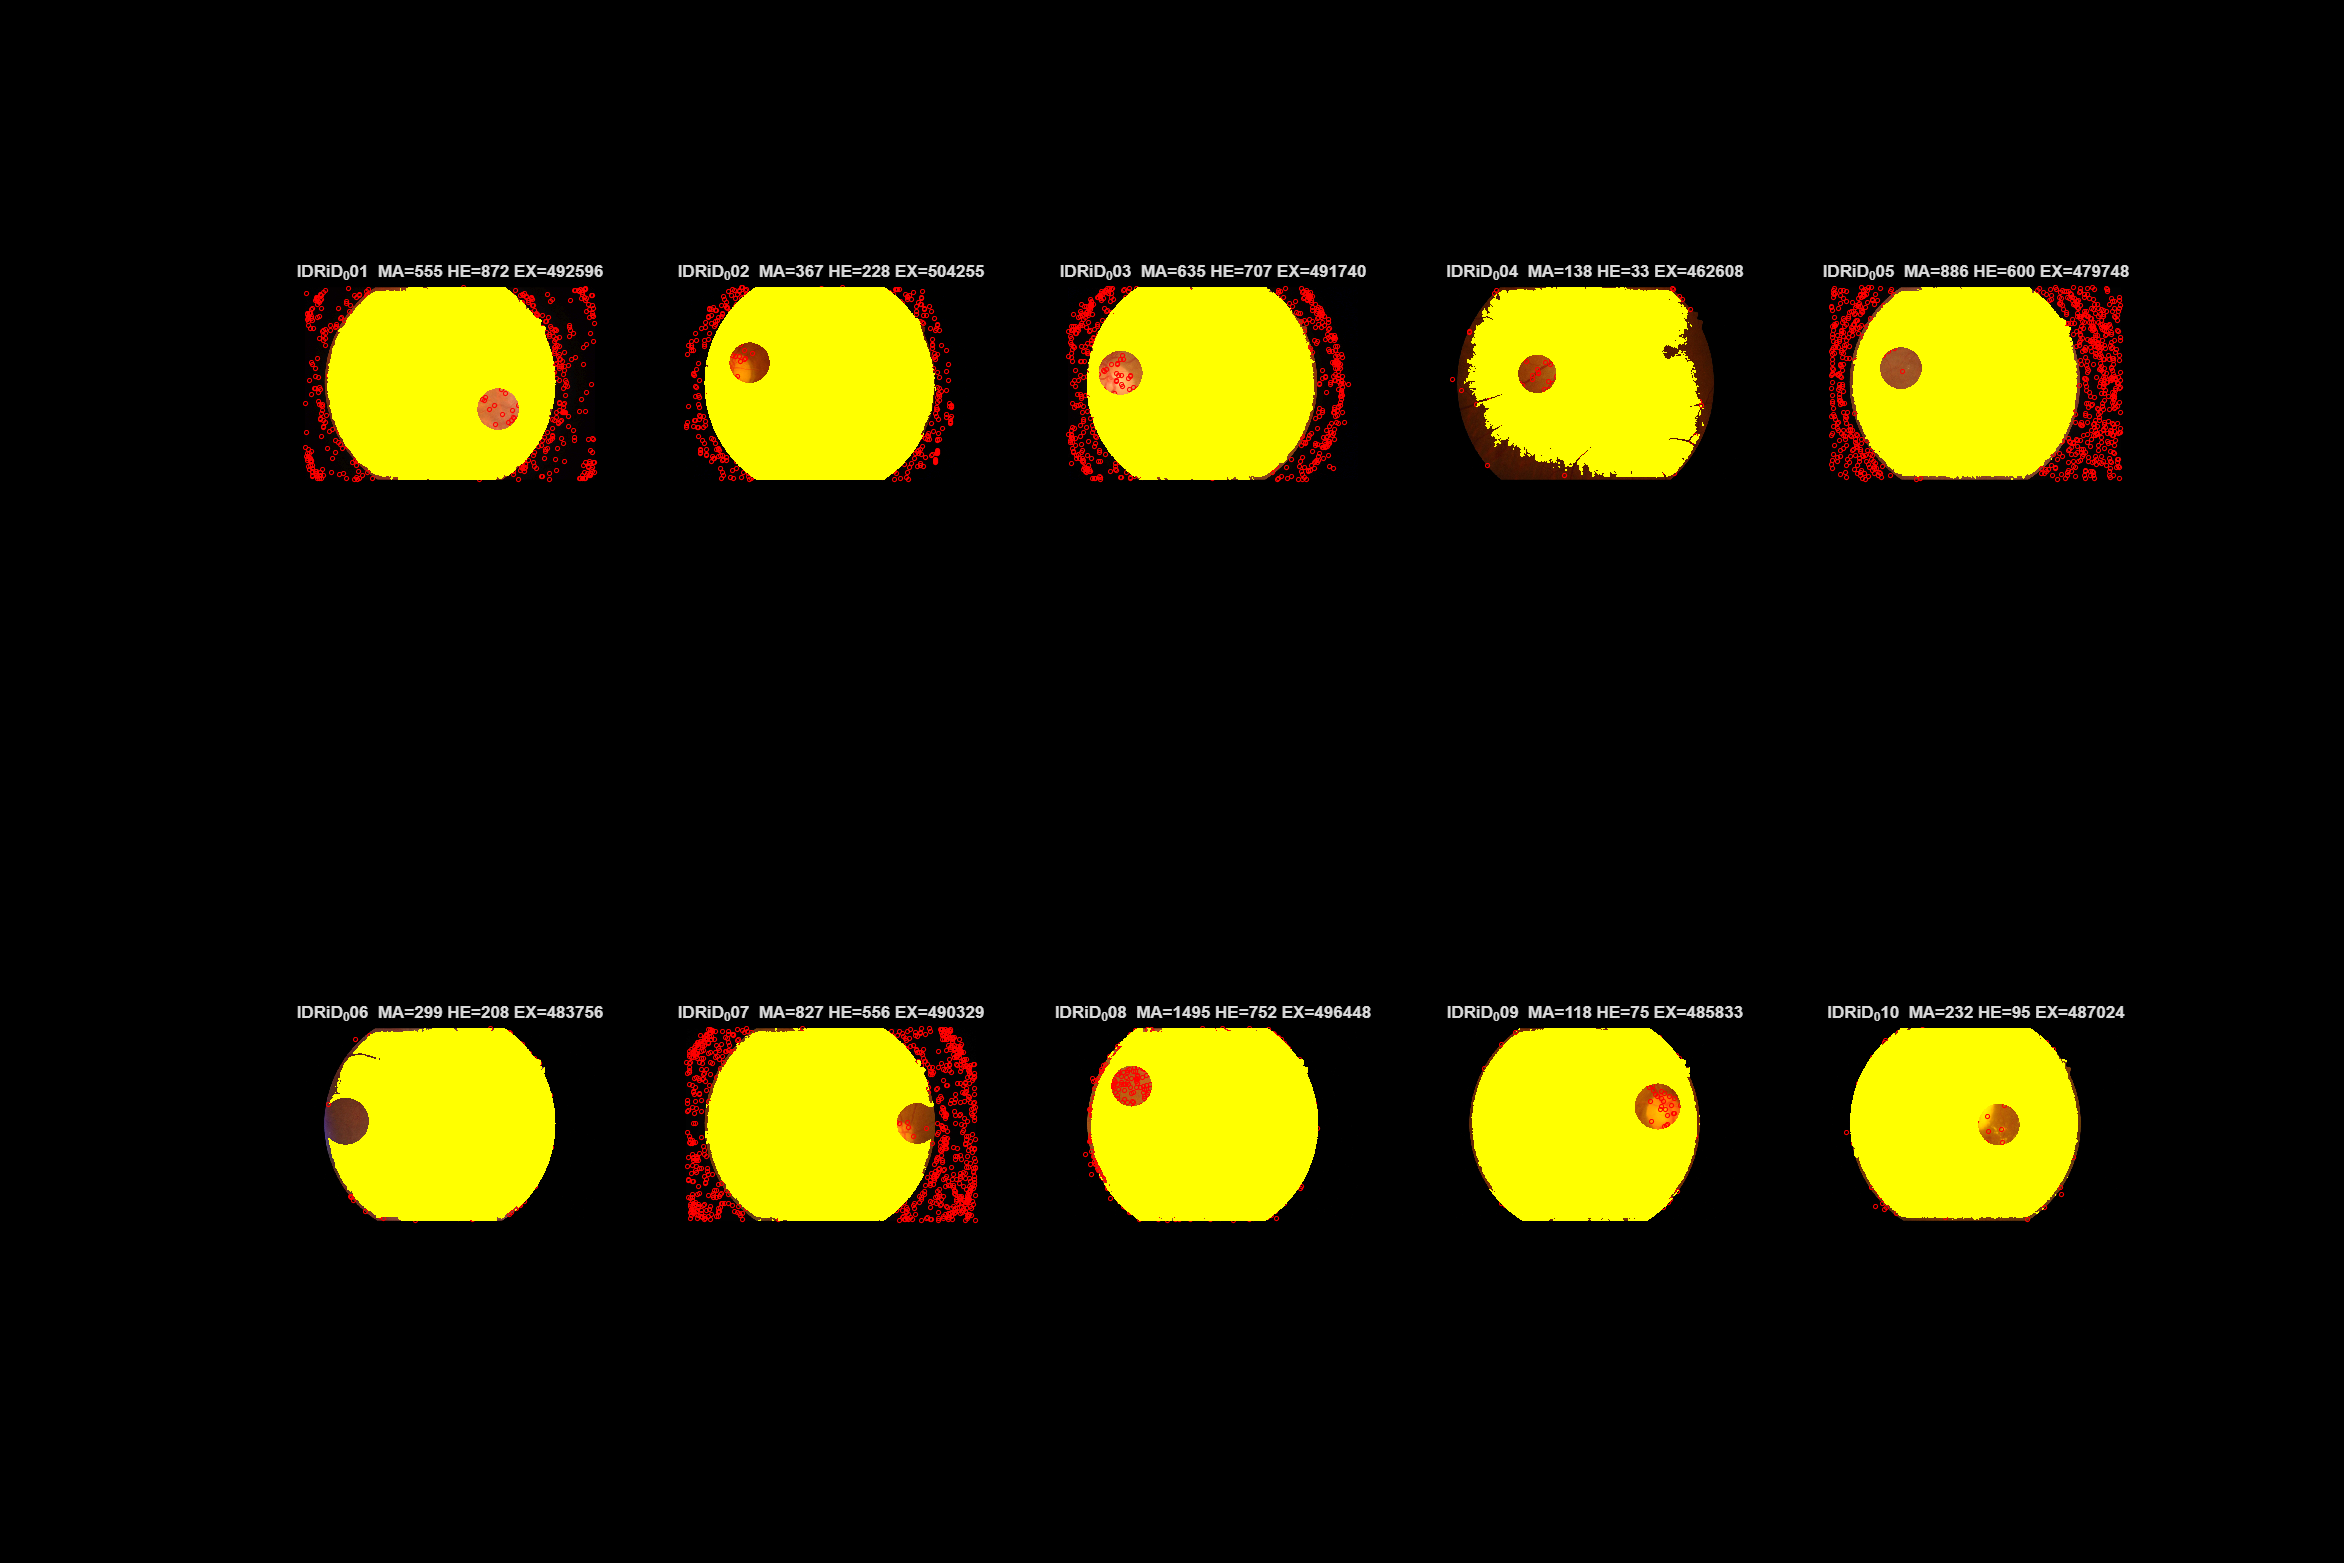
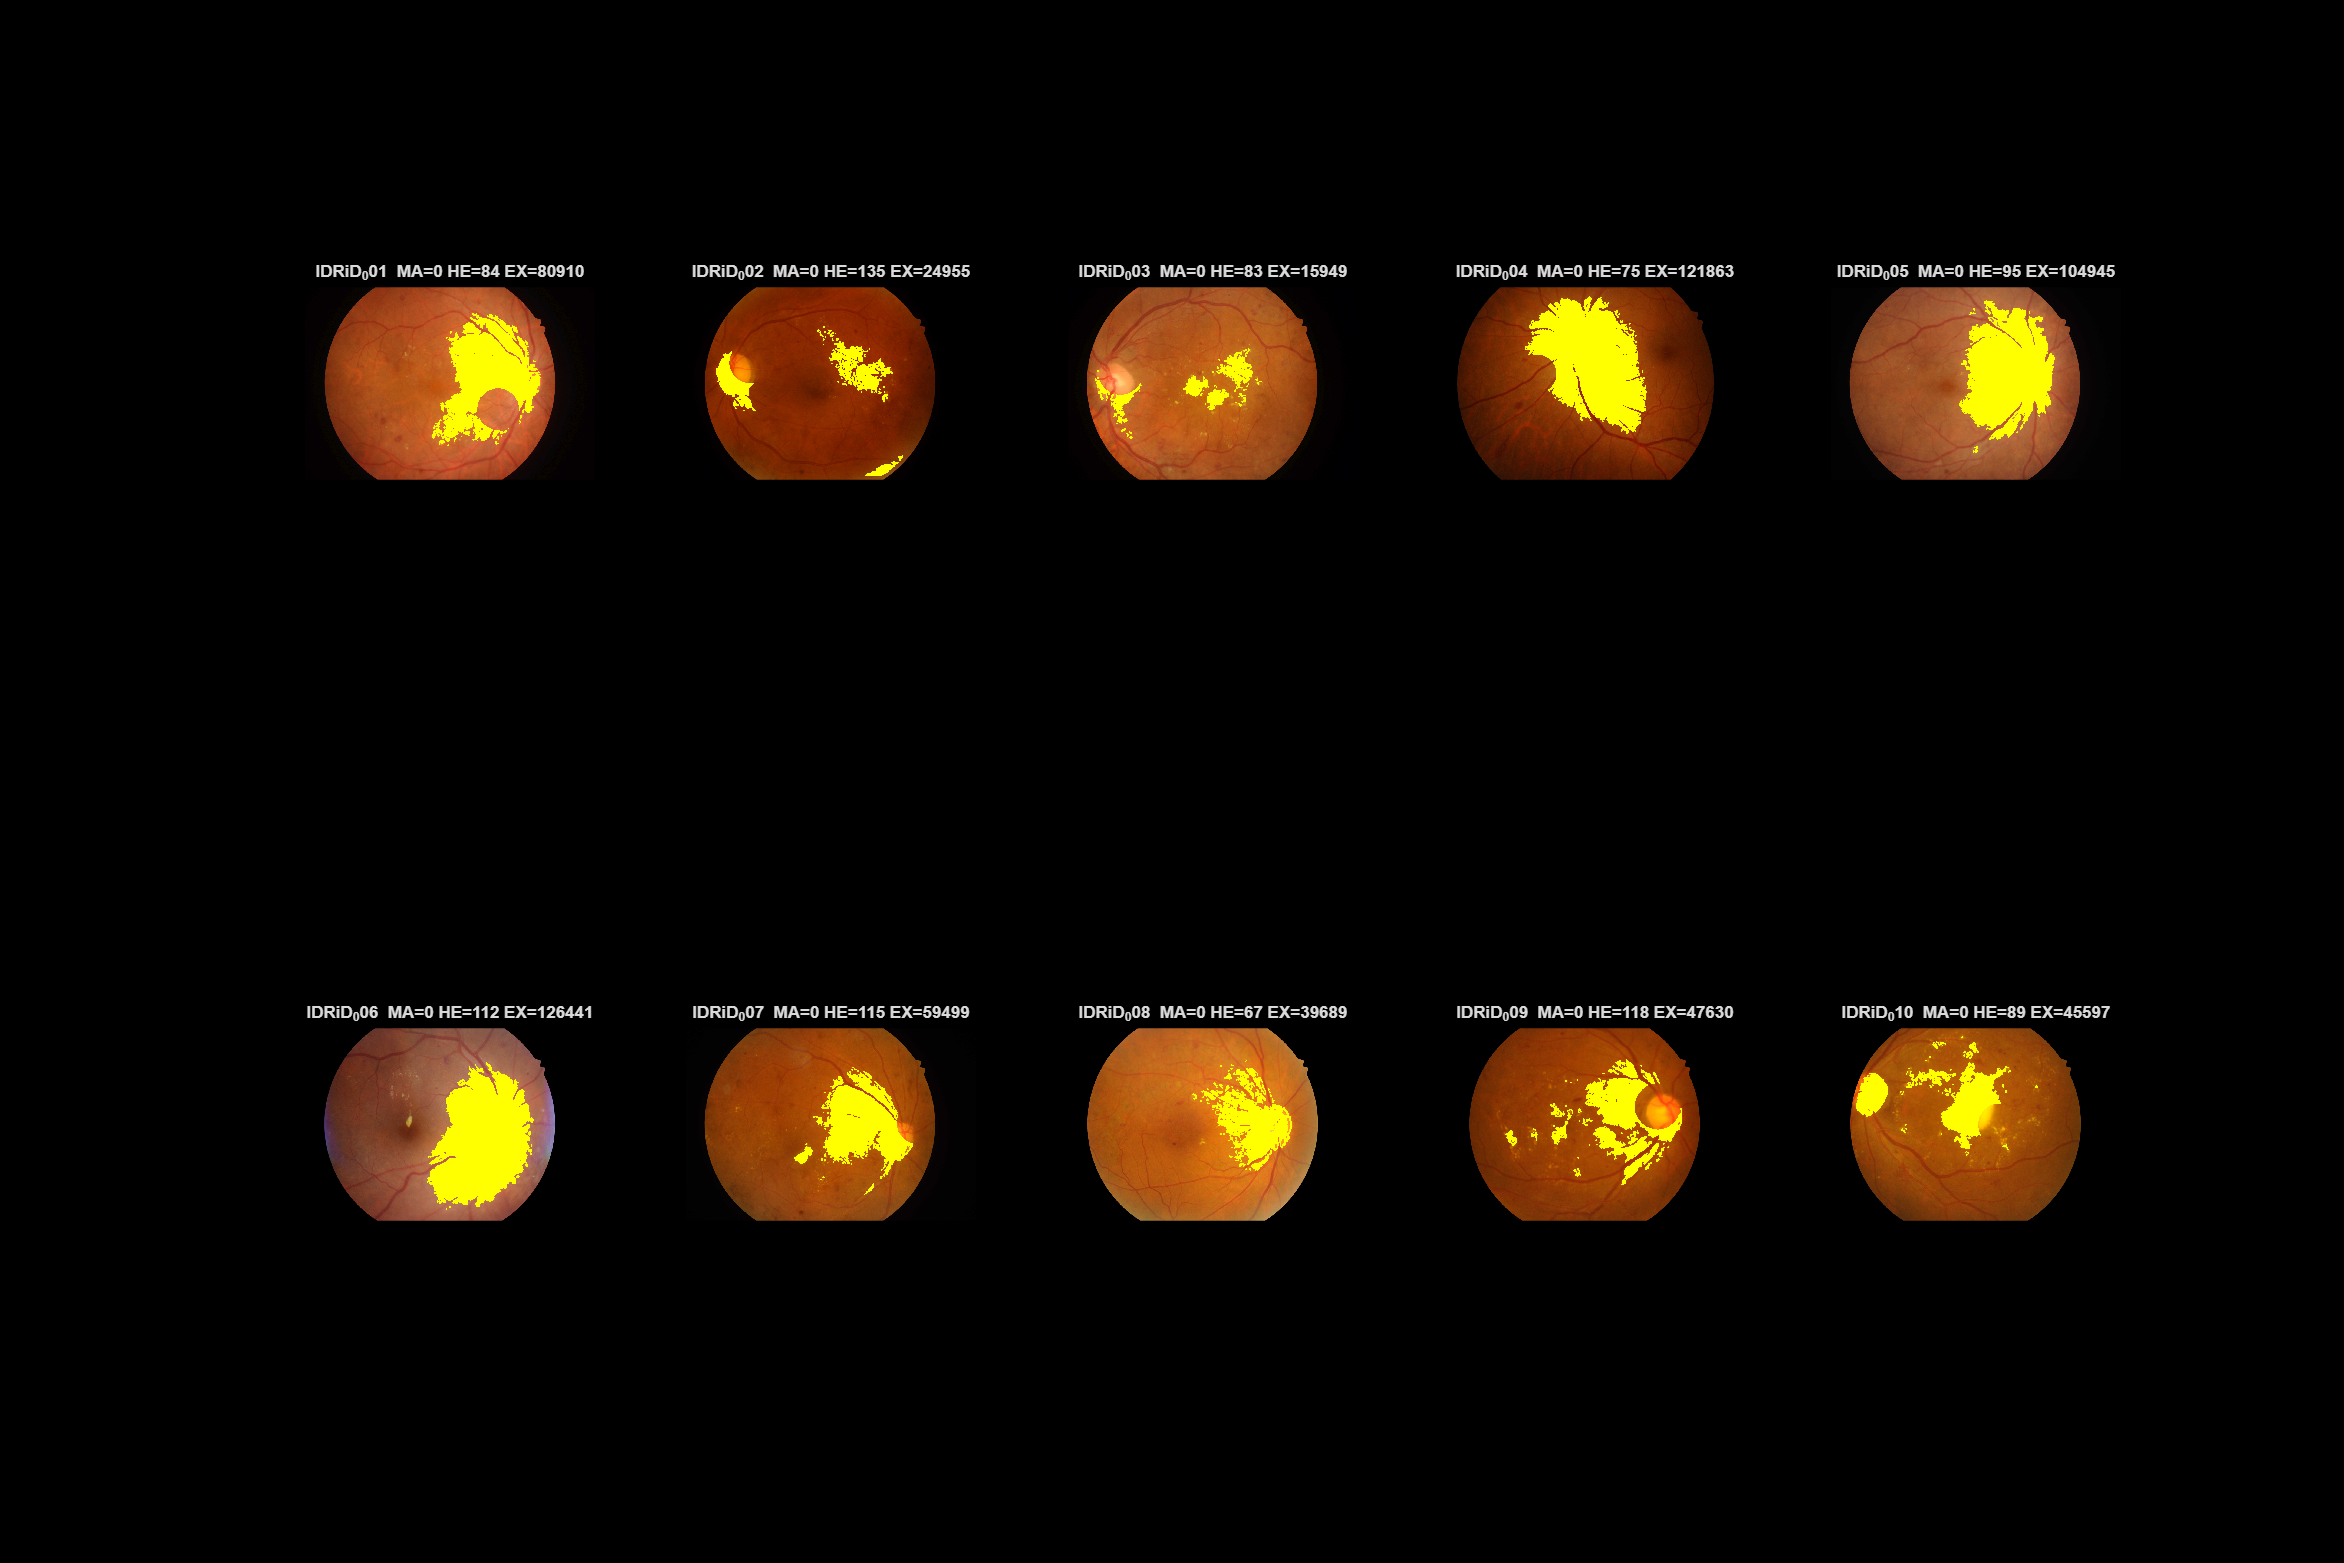
Task 6: snapshot of in-progress lesion-extraction edits (operator parallel work)
Captures live WIP edits to extractLesionCandidates.m, montage and summary so the pushed history includes the latest state at push time.

diff --git a/src/lesions/extractLesionCandidates.m b/src/lesions/extractLesionCandidates.m
@@ -50,20 +50,20 @@ function feat = extractLesionCandidates(imgPath, opts)
     % Multi-orientation top-hat: dark dots/lines removed by bottom-hat on
     % the normalized green channel. Use disk SE for MAs, larger disk for HEs.
     se_disk_small = strel('disk', 1);          % ~MA scale (downscaled)
-    se_disk_large = strel('disk', round(max(4/s, 3))); % HE scale
+    se_disk_large = strel('disk', round(40/s)); % HE scale (~40px original radius; bridges vessels)
 
     % Bottom-hat (dark structures on bright bg) via closing minus original
     redResponseSmall = imbothat(Gnorm, se_disk_small);
     redResponseLarge = imbothat(Gnorm, se_disk_large);
 
-    % Threshold: require strong local response (top quartile of positive
+    % Threshold: require strong local response (upper quantile of positive
     % response) to avoid textbook background texture over-detection.
-    p = redResponseLarge(:);
-    pPos = p(p > 0);
+    pS = redResponseSmall(:);  pSL = pS(pS > 0);
+    pL = redResponseLarge(:);  pLL = pL(pL > 0);
     thrSmall = max(graythresh(redResponseSmall) * max(redResponseSmall(:)), ...
-                   quantile(pPos, 0.5) * 1.5);
+                   quantile(pSL, 0.85) * 1.2);
     thrLarge = max(graythresh(redResponseLarge) * max(redResponseLarge(:)), ...
-                   quantile(pPos, 0.7));
+                   quantile(pLL, 0.8));
     binSmall = redResponseSmall > thrSmall;
     binLarge = redResponseLarge > thrLarge;
 
@@ -93,14 +93,16 @@ function feat = extractLesionCandidates(imgPath, opts)
         end
     end
 
-    % ---- HEs: larger, irregular but not infinite ----
+    % ---- HEs: larger, irregular but not vessel-like ----
     hes = struct('count', 0, 'centroidX', [], 'centroidY', [], 'areaPx', []);
-    HEminArea = round((25/s)^2);
-    heMu = regionprops(ccLarge, {'Area','Centroid','Eccentricity'});
+    HEminArea = round((35/s)^2);
+    heMu = regionprops(ccLarge, {'Area','Centroid','Eccentricity','MajorAxisLength','MinorAxisLength'});
     for k = 1:length(heMu)
         a = heMu(k).Area;
         ecc = heMu(k).Eccentricity;
-        if a >= HEminArea && ecc > 0.55 && a <= round((200/s)^2)  % disc by size+ecc
+        % Vessels are very elongated (ecc ~ 1); haemorrhages are
+        % irregular blobs. Keep moderate eccentricity and reasonable size.
+        if a >= HEminArea && ecc > 0.4 && ecc < 0.92 && a <= round((250/s)^2)
             hes.count = hes.count + 1;
             hes.centroidX(end+1) = heMu(k).Centroid(1) * s;
             hes.centroidY(end+1) = heMu(k).Centroid(2) * s;
